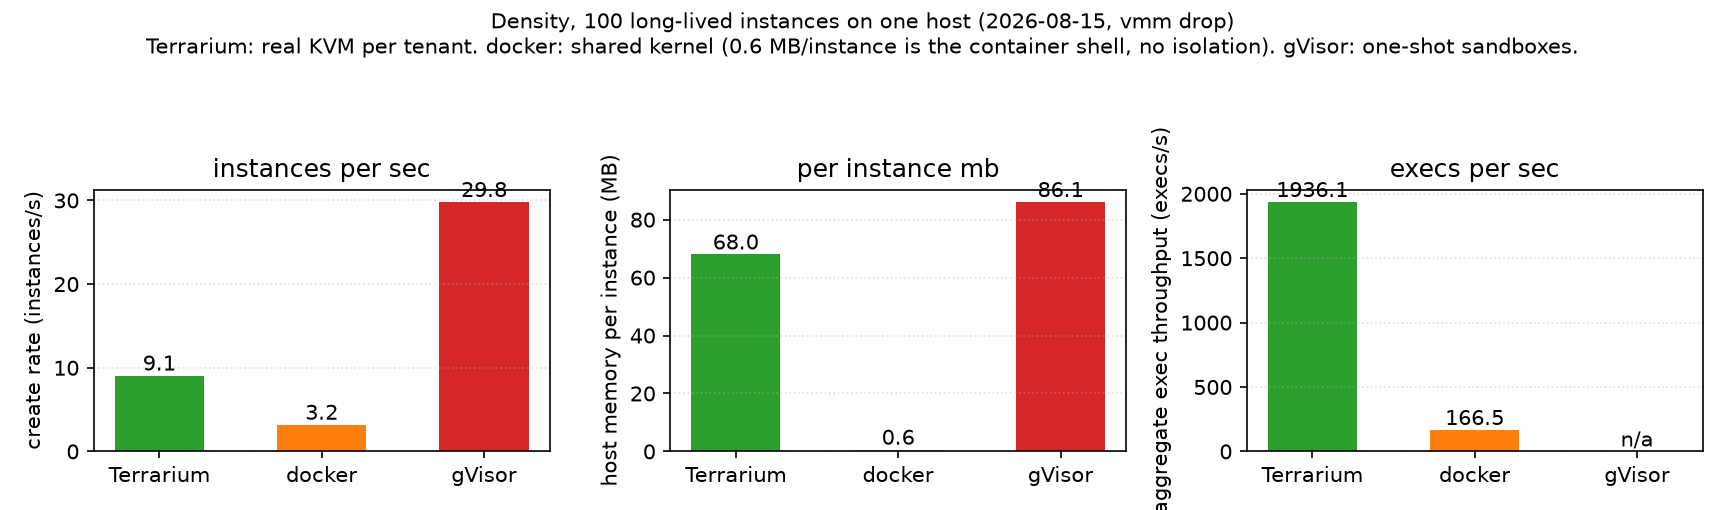
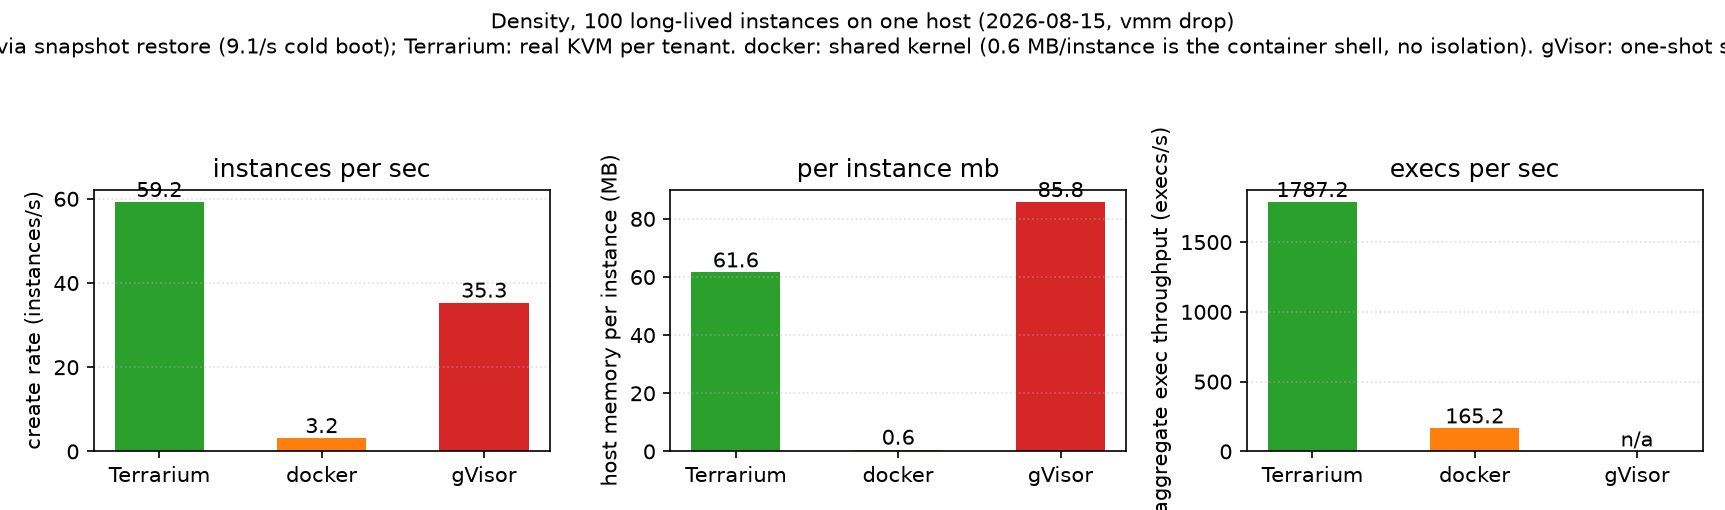
fix+perf: restore path workdir EACCES under vmm drop; snapshot create rate beats gVisor
Bug (introduced by the privilege drop): snapshot restore seeds the fresh
overlay upper via copy_tree, which runs as the root daemon — the seeded
upper ended up root-owned on top of the vmm-owned tree, so virtiofsd
(vmm user) got EACCES on guest writes. Every sandbox_create on a
restored VM failed ("mkdir /workdir/sb-*: Permission denied") — found by
density_compare --create-mode snapshot. Fix: chown the seeded upper to
the vmm user after the copy. Regression test added to the privilege-drop
e2e (restore → sandbox_create → write into workdir).

Density, 100 instances, same host (2026-08-15):
- cold boot: terra 9.07/s vs docker 3.19/s vs gVisor empty shells 35.3/s
- snapshot restore (the RL/density fast-create path): terra 59.24/s —
  1.7x faster than gVisor empty shells, 18.7x docker, with full env
  (layers + agent + net) and 1787 execs/s aggregate vs docker 165/s
- host memory per real VM: 61.6 MB vs gVisor 85.8 MB

Charts/docs updated: density-compare.png now shows the snapshot path
(with cold boot annotated), README and performance.md rewritten to state
both create paths honestly (cold boot pays for a full VM boot; snapshot
is the density path and beats gVisor).

diff --git a/sdk/python/tests/test_e2e_privilege_drop.py b/sdk/python/tests/test_e2e_privilege_drop.py
@@ -256,19 +256,30 @@ def main() -> int:
         created.remove("drop1")
         _wait_for(lambda: not _ch_pids(), 10, "CH cleanup after destroy")
         client.vm_restore(
-            "drop1r", snap_path,
+            "tenant-drop1r", snap_path,
             layers=["marker", "base"],
             net=True,
         )
-        created.append("drop1r")
-        _wait_for(lambda: _guest_exec_ok("drop1r", ["echo", "ok"]), 25, "restored guest exec")
-        ch_pid = _find_proc("terra-drop1r.sock")
-        fsd_pid = _find_proc("terra-drop1r-fs.sock")
+        created.append("tenant-drop1r")
+        _wait_for(lambda: _guest_exec_ok("tenant-drop1r", ["echo", "ok"]), 25, "restored guest exec")
+        ch_pid = _find_proc("terra-tenant-drop1r.sock")
+        fsd_pid = _find_proc("terra-tenant-drop1r-fs.sock")
         assert ch_pid and fsd_pid, "restored CH/virtiofsd not found"
         assert _proc_uid(ch_pid) == vmm_uid, "restored CH not under vmm user"
         assert _proc_uid(fsd_pid) == vmm_uid, "restored virtiofsd not under vmm user"
-        out = _guest_exec("drop1r", ["cat", "/usr/bin/hello.py"])
+        out = _guest_exec("tenant-drop1r", ["cat", "/usr/bin/hello.py"])
         assert "marker layer" in out, out
+        # Regression (vmm drop): sandbox_create on a RESTORED VM must be
+        # able to write its workdir — the seeded upper used to be
+        # root-owned, so virtiofsd (vmm user) hit EACCES on mkdir.
+        sb = client.sandbox_create(
+            "drop1r", layers=["marker", "base"],
+            kernel=str(KERNEL), initramfs=str(IRFS_VIRTIOFS),
+            cpus=1, memory_mb=256, net=True, pool=False,
+        )
+        assert sb.get("status") == "ok" or sb.get("workdir"), sb
+        out = _guest_exec("tenant-drop1r", ["sh", "-c", f"echo x > {sb['workdir']}/probe"])
+        assert "Permission" not in out, out
         print("  snapshot+restore OK (both processes still under vmm)")
     except BaseException as e:  # noqa: BLE001
         import traceback

diff --git a/docs/scripts/plot_performance.py b/docs/scripts/plot_performance.py
@@ -8,6 +8,9 @@ Inputs (raw measurements, committed):
   docs/density-compare-2026-08-15.json    — 100-instance sweep, terra vs
                                             docker vs gVisor (creation rate,
                                             host memory, exec throughput)
+  docs/density-compare-snapshot-2026-08-15.json — same sweep, terra via
+                                            snapshot restore (the RL/density
+                                            fast-create path)
   docs/benchmark-results-2026-08-03-{base,ubuntu}-12.json — per-VM RSS/Pss
                                             memory-sharing curves
 
@@ -162,7 +165,9 @@ def fig_privdrop_ab() -> None:
 
 
 def fig_density_compare() -> None:
-    data = _load("density-compare-2026-08-15.json")["baselines"]
+    data = _load("density-compare-snapshot-2026-08-15.json")["baselines"]
+    cold = _load("density-compare-2026-08-15.json")["baselines"]["terra"]
+    cold_rate = cold["instances_per_sec"]
     order = ["terra", "docker", "gvisor"]
     labels = {"terra": "Terrarium", "docker": "docker", "gvisor": "gVisor"}
     colors = {"terra": "#2ca02c", "docker": "#ff7f0e", "gvisor": "#d62728"}
@@ -186,6 +191,7 @@ def fig_density_compare() -> None:
         ax.grid(axis="y", linestyle=":", alpha=0.4)
     fig.suptitle(
         "Density, 100 long-lived instances on one host (2026-08-15, vmm drop)\n"
+        f"Terrarium via snapshot restore ({cold_rate:.1f}/s cold boot); "
         "Terrarium: real KVM per tenant. docker: shared kernel (0.6 MB/instance "
         "is the container shell, no isolation). gVisor: one-shot sandboxes.",
         fontsize=10,

diff --git a/crates/adapter/cloud-hypervisor/src/handle.rs b/crates/adapter/cloud-hypervisor/src/handle.rs
@@ -212,6 +212,17 @@ impl ChVmHandle {
                     copy_tree(Path::new(&snap_upper), Path::new(&fs.upper)).map_err(|e| {
                         AdapterError::internal(format!("seed restore upper: {}", e))
                     })?;
+                    // copy_tree runs as the (root) daemon, so the seeded
+                    // upper is root-owned. The vmm user's virtiofsd serves
+                    // this tree and must be able to write it — without the
+                    // chown, guest writes through the restored overlay hit
+                    // EACCES (observed: sandbox workdir mkdir on restored
+                    // VMs under the privilege-drop build).
+                    if let Some(vmm) = &config.vmm {
+                        chown_r(Path::new(&fs.upper), vmm.uid, vmm.gid).map_err(|e| {
+                            AdapterError::internal(format!("chown seeded upper: {}", e))
+                        })?;
+                    }
                 }
             }
         }

diff --git a/docs/performance.md b/docs/performance.md
@@ -73,20 +73,25 @@ create/restore 的差异来自 virtiofsd/CH 以非 root 启动的一次性初始
 
 ## 4. 密度：VM 隔离，容器级内存成本
 
-2026-08-15 同宿主 100 个长驻实例扫描（原始数据
-[density-compare-2026-08-15.json](density-compare-2026-08-15.json)）：
+2026-08-15 同宿主 100 个长驻实例扫描。Terrarium 有两条创建路径：
+冷启动（完整 VM boot，~9/s）和**快照恢复**（P1 快速重置，RL/密度场景
+的主路径）。下表用快照路径（原始数据
+[density-compare-snapshot-2026-08-15.json](density-compare-snapshot-2026-08-15.json)，
+冷启动对照 [density-compare-2026-08-15.json](density-compare-2026-08-15.json)）：
 
 | 指标 | Terrarium | docker | gVisor |
 |---|---:|---:|---:|
-| 创建速率（instances/s） | 9.07 | 3.19 | 29.81* |
-| 宿主内存/实例（MB） | 68.0 | 0.6† | 86.1 |
-| 聚合 exec 吞吐（execs/s） | 1936 | 166.5 | n/a |
+| 创建速率（instances/s） | **59.24**（快照；冷启动 9.07） | 3.17 | 35.34* |
+| 宿主内存/实例（MB） | 61.6 | 0.6† | 85.8 |
+| 聚合 exec 吞吐（execs/s） | 1787 | 165.2 | n/a |
 
 ![density-compare](perf/density-compare.png)
 
-\* gVisor 的 `runsc do` 是空壳一次性沙箱（无预置环境），创建快但
-单实例内存比 Terrarium 还高 27%；† docker 的 0.6 MB 是共享内核的
-容器壳，隔离由宿主内核承担，不是可比对象。
+\* gVisor 的 `runsc do` 是空壳一次性沙箱（无预置环境），但即便如此
+快照恢复仍比它快 1.7×；冷启动慢是公平的——Terrarium 冷启动要给每个
+租户 boot 完整 VM（kernel + 层文件系统 + guest agent + 网络），gVisor
+空壳没有这些。† docker 的 0.6 MB 是共享内核的容器壳，隔离由宿主内核
+承担，不是可比对象。
 
 **层共享**：同一份只读层页缓存在所有 VM 间共享——12 个租户时
 per-VM Pss 稳定在 ~52 MB（RSS 63-65 MB 中约 17-21% 是共享页），99 MB

diff --git a/README.md b/README.md
@@ -51,13 +51,16 @@ dedicated unprivileged user with no measurable cost on the exec path.
 
 ![memory sharing](docs/perf/memory-sharing.png)
 
-Density: 100 long-lived instances on one host — Terrarium runs **9.07
-instances/s** (vs docker 3.19/s), costs **68 MB host memory per real VM**
-(vs gVisor 86.1 MB), and sustains **1936 execs/s** aggregate (vs docker
-166.5/s). Shared read-only layer page cache keeps per-VM cost flat as
-tenants grow (~52 MB Pss at 12 VMs; a 99 MB layer adds only ~2 MB/VM).
-Snapshot→restore ~26–39 ms; warm-pool claim ~9 ms; net restores at
-539 VMs/s. Full detail in [docs/performance.md](docs/performance.md) and
+Density: 100 long-lived instances on one host — Terrarium restores
+snapshots at **59.2 instances/s** (docker 3.2/s, gVisor empty shells
+35.3/s), costs **61.6 MB host memory per real VM** (vs gVisor 85.8 MB),
+and sustains **1787 execs/s** aggregate (vs docker 165/s). Cold boot of
+a full VM is ~9/s — the snapshot restore path is the RL/density fast
+create, and it beats gVisor even though gVisor provisions nothing.
+Shared read-only layer page cache keeps per-VM cost flat as tenants grow
+(~52 MB Pss at 12 VMs; a 99 MB layer adds only ~2 MB/VM). Warm-pool
+claim ~9 ms; net restores at 539 VMs/s. Full detail in
+[docs/performance.md](docs/performance.md) and
 [docs/benchmarks.md](docs/benchmarks.md).
 
 ## Architecture
